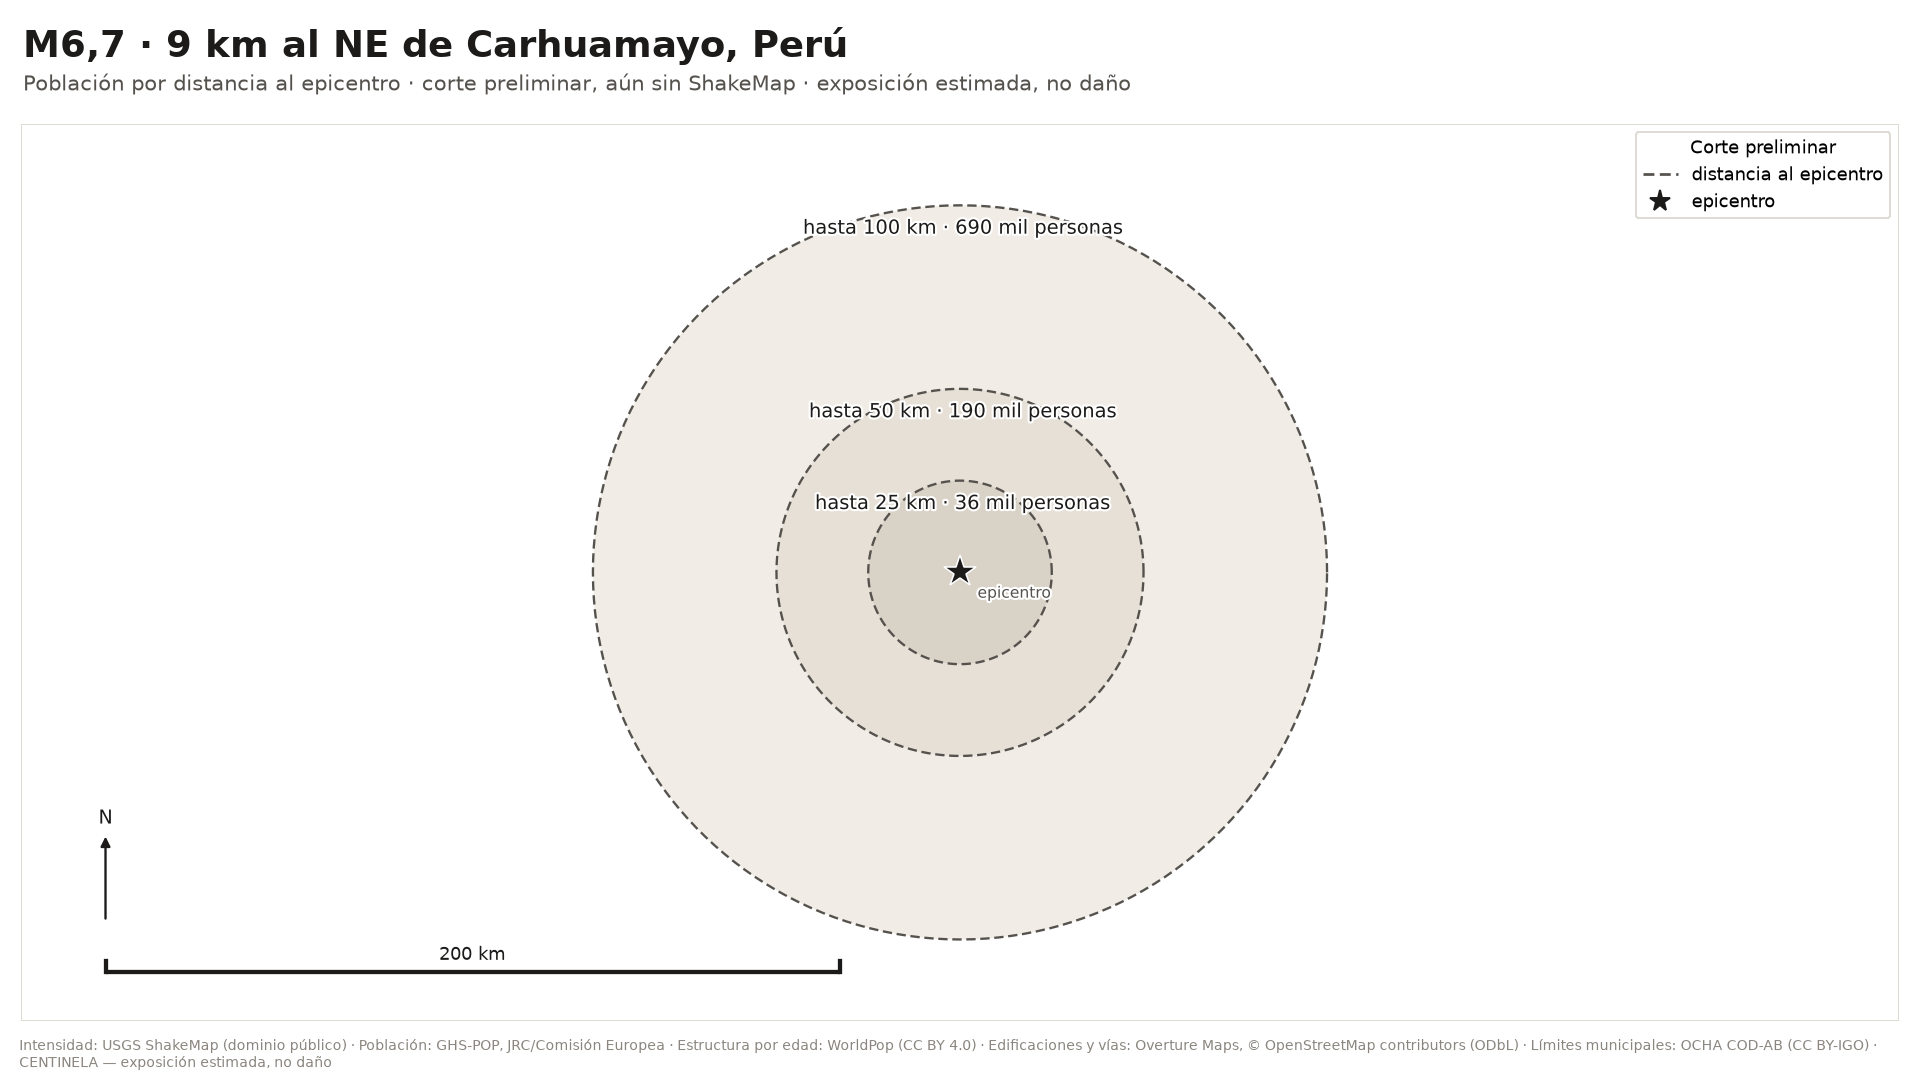
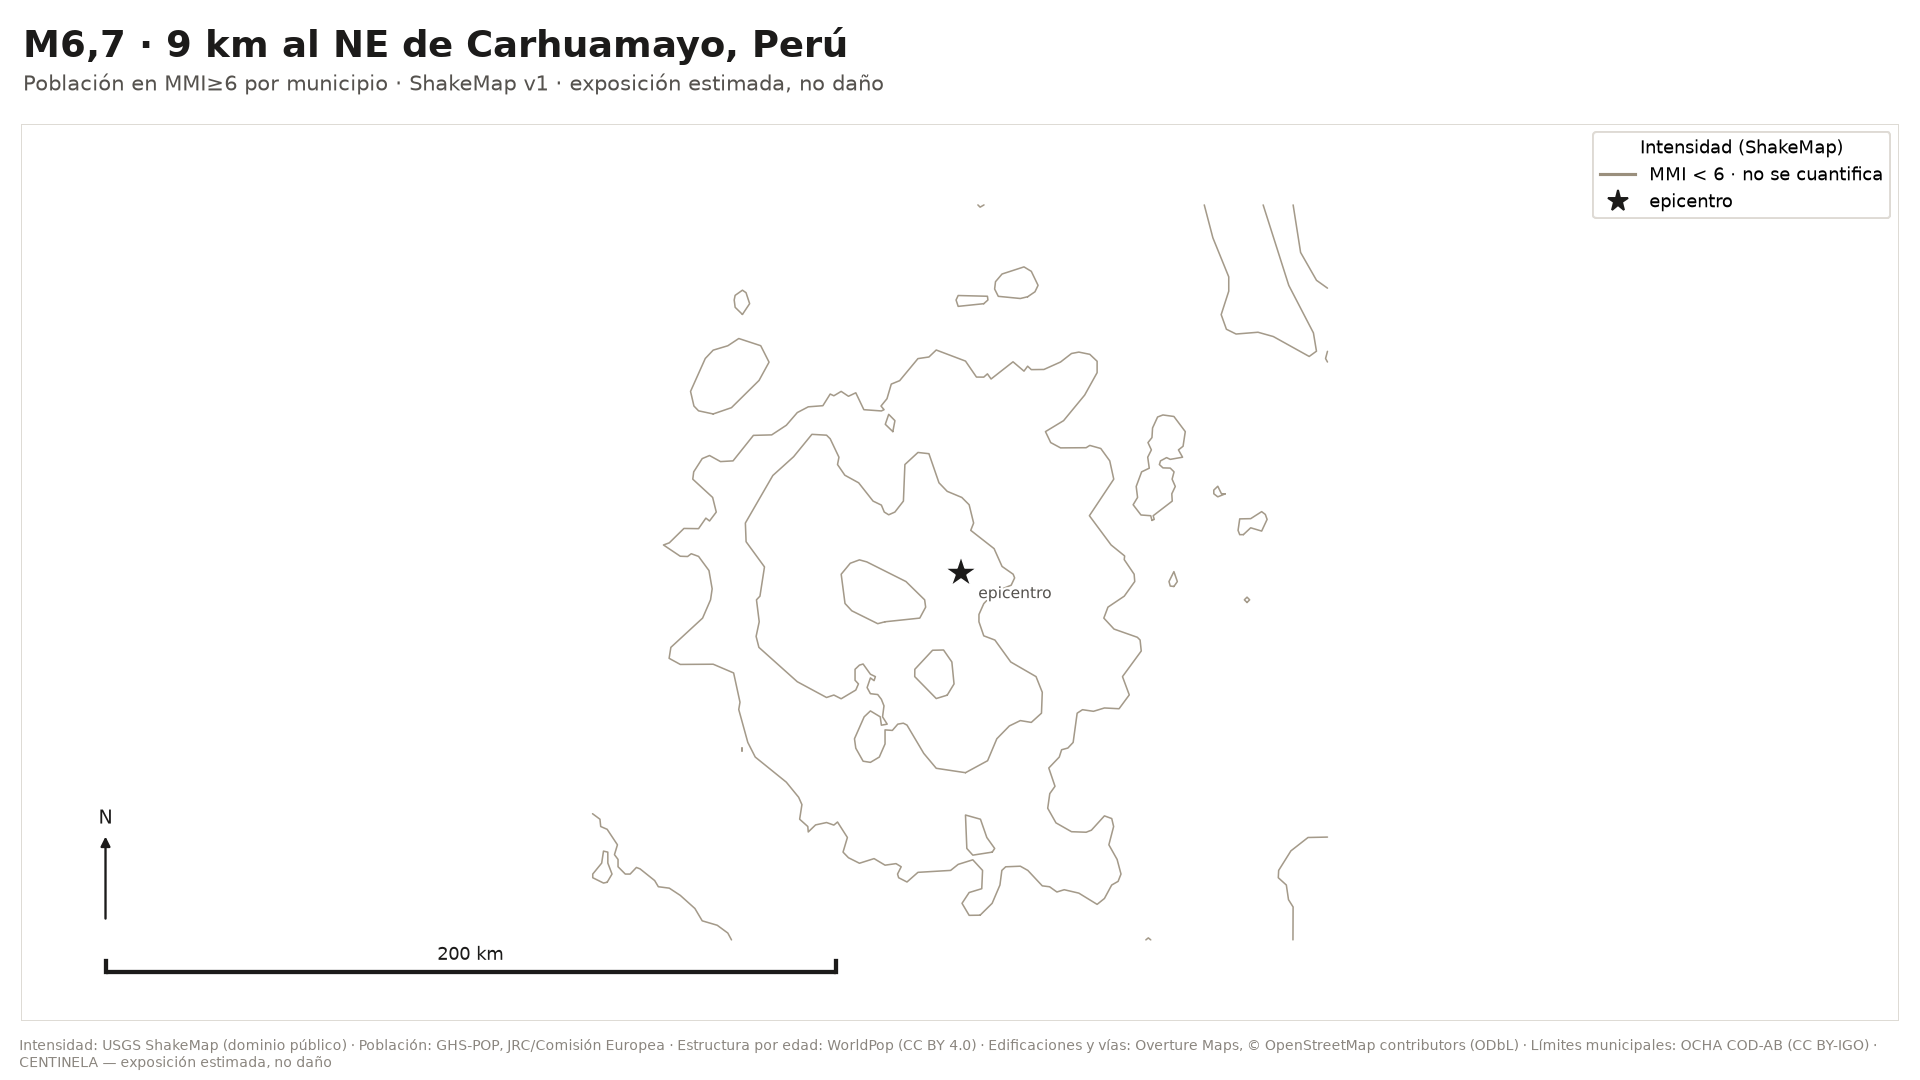
P3: reporte de pt26325050

diff --git a/reports/pt26325050/report.md b/reports/pt26325050/report.md
@@ -2,9 +2,25 @@
 
 **Evento USGS:** `pt26325050` · **Origen:** 2026-11-21T00:09:17Z UTC · **Profundidad:** 108,0 km
 
-> **Reporte preliminar sin ShakeMap.** El corte es por radios alrededor del epicentro, no por intensidad modelada. Se actualiza automáticamente en cuanto USGS publique el ShakeMap del evento.
+## Exposición estimada
 
-## Población por distancia al epicentro
+| Indicador | Estimado |
+|---|---:|
+| Población en MMI≥6 | el evento no llegó a esta banda |
+| Población en MMI≥7 | el evento no llegó a esta banda |
+| Población en MMI≥8 | el evento no llegó a esta banda |
+| Edificaciones en MMI≥6 | 0 |
+| Sedes de salud en MMI≥6 | 0 |
+| Sedes educativas en MMI≥6 | 0 |
+| Kilómetros de vía en MMI≥6 | 0 km |
+
+> **Todas las cifras en cero es un resultado, no un fallo.** El ShakeMap sí alcanza territorio habitado del país, con intensidad máxima **MMI 5,5** sobre municipio. Este sistema publica cifras desde MMI≥6, así que por debajo de ese umbral las tablas van en cero. El cálculo corrió entero.
+
+Las cifras de esta tabla van redondeadas a dos cifras significativas, que es la precisión que un modelo de exposición sostiene. Las exactas están en el CSV municipal y en `report.json`.
+
+### Población por distancia al epicentro
+
+Ninguna banda de intensidad alcanza población, así que la única cifra que dimensiona este evento es la distancia:
 
 | Radio desde el epicentro | Población |
 |---|---:|
@@ -14,20 +30,48 @@
 
 Los radios **no son bandas de intensidad**. Aquí no hay modelo de sacudida, solo distancia: un sismo superficial y uno profundo de la misma magnitud tienen el mismo circulo y no se parecen en nada. La cifra sirve para dimensionar, no para priorizar.
 
+## Municipios más expuestos, por población en MMI≥6
+
+Ningún municipio del país alcanza población dentro de MMI≥6. No es que falte el dato: la intensidad que el ShakeMap dibuja para este evento no llega a esa banda sobre territorio habitado.
+
 ## Deslizamiento y licuefacción
 
-USGS no ha publicado el producto *Ground Failure* para este evento. La sección se omite; el reporte se re-emite automáticamente si aparece.
+- **Deslizamiento.** Población en celdas de MMI≥6 donde el modelo espera ≥ 0,10 de probabilidad de deslizamiento según `jessee_2018_model.tif`: **0**.
+- **Licuefacción.** Población en celdas de MMI≥6 donde el modelo espera ≥ 0,10 de cobertura areal por licuefacción según `zhu_2017_general_model.tif`: **0**. USGS declara para este evento alerta **amarilla**, con 300 expuestas. El cero de arriba no dice que no haya exposición: dice que ninguna celda llega al umbral.
+
+Las dos cifras se cuentan sobre las celdas del corte publicado (MMI≥6). **No son las de USGS y no se pueden comparar de frente**: aquí se cuenta la población entera de toda celda por encima del umbral, y USGS pondera la población de cada celda por el valor de esa celda. Son dos preguntas distintas sobre el mismo ráster.
+
+**Y el umbral se evalúa en un solo punto por celda: su centroide.** El píxel del ráster es más pequeño que la celda, así que ese punto decide si entra la población entera de la celda o no entra ninguna. No es una estadística areal, y el sesgo que introduce no está medido: puede quedarse corto o pasarse.
+
+Fuente: producto *Ground Failure* de USGS (v1), dominio público.
+
+## Referencia cruzada
+
+PAGER (USGS) estima para este evento una alerta **verde**. CENTINELA no estima víctimas; la cifra se incluye solo como contraste.
+
+Las dos cifras **no se tabulan igual** y no se pueden leer una contra otra: PAGER agrupa por MMI redondeado (su fila «7» es todo lo que cae entre 6,5 y 7,49) y CENTINELA usa bandas literales, donde MMI≥7 es MMI≥7. Puede además que no hablen del mismo ShakeMap: este reporte declara en «Procedencia» qué versión consumió, y PAGER pudo correr sobre otra versión o sobre otro producto del mismo sismo. El contraste banda a banda, hecho y comprobado para el sismo de San José del Palmar, está en `docs/PARA_INSTITUCIONES.md`.
 
 ## Incertidumbre y calidad
 
-Discrepancia entre GHS-POP y WorldPop: **no se calcula en un reporte preliminar**. El contraste se hace celda a celda dentro de las bandas de intensidad, y sin ShakeMap todavía no hay bandas que cortar. Aparecerá en cuanto el reporte se re-emita con el ShakeMap.
+Discrepancia entre GHS-POP y WorldPop: **no se pudo medir**. Ninguna celda dentro de las bandas publicadas tiene población de WorldPop con la que contrastar.
+
+## Cambios frente a la versión anterior
+
+- ShakeMap: v0 → v1 (us)
+- Ground Failure: v0 → v1 (us)
+- Ninguna cifra publicada cambia frente a la versión anterior.
+
+## Descargas
+
+- [CSV por municipio](adm2.csv)
+- [Mapa PNG](mapa_general.png)
 
 ## Procedencia
 
-- ShakeMap consumido: **ninguno** (no publicado aún)
-- Ground Failure consumido: **ninguno** (no publicado aún)
+- ShakeMap consumido: **v1** de `us`
+- Ground Failure consumido: **v1** de `us`
 - Manifiesto de exposición: [`per-v0.5`](https://github.com/sforero77/CENTINELA/blob/main/data/manifests/PER.yaml)
-- Pipeline: `0.1.0` · Generado: 2026-11-21T00:26:00Z
+- Pipeline: `0.1.0` · Generado: 2026-11-21T00:46:02Z
 
 ## Advertencias
 
